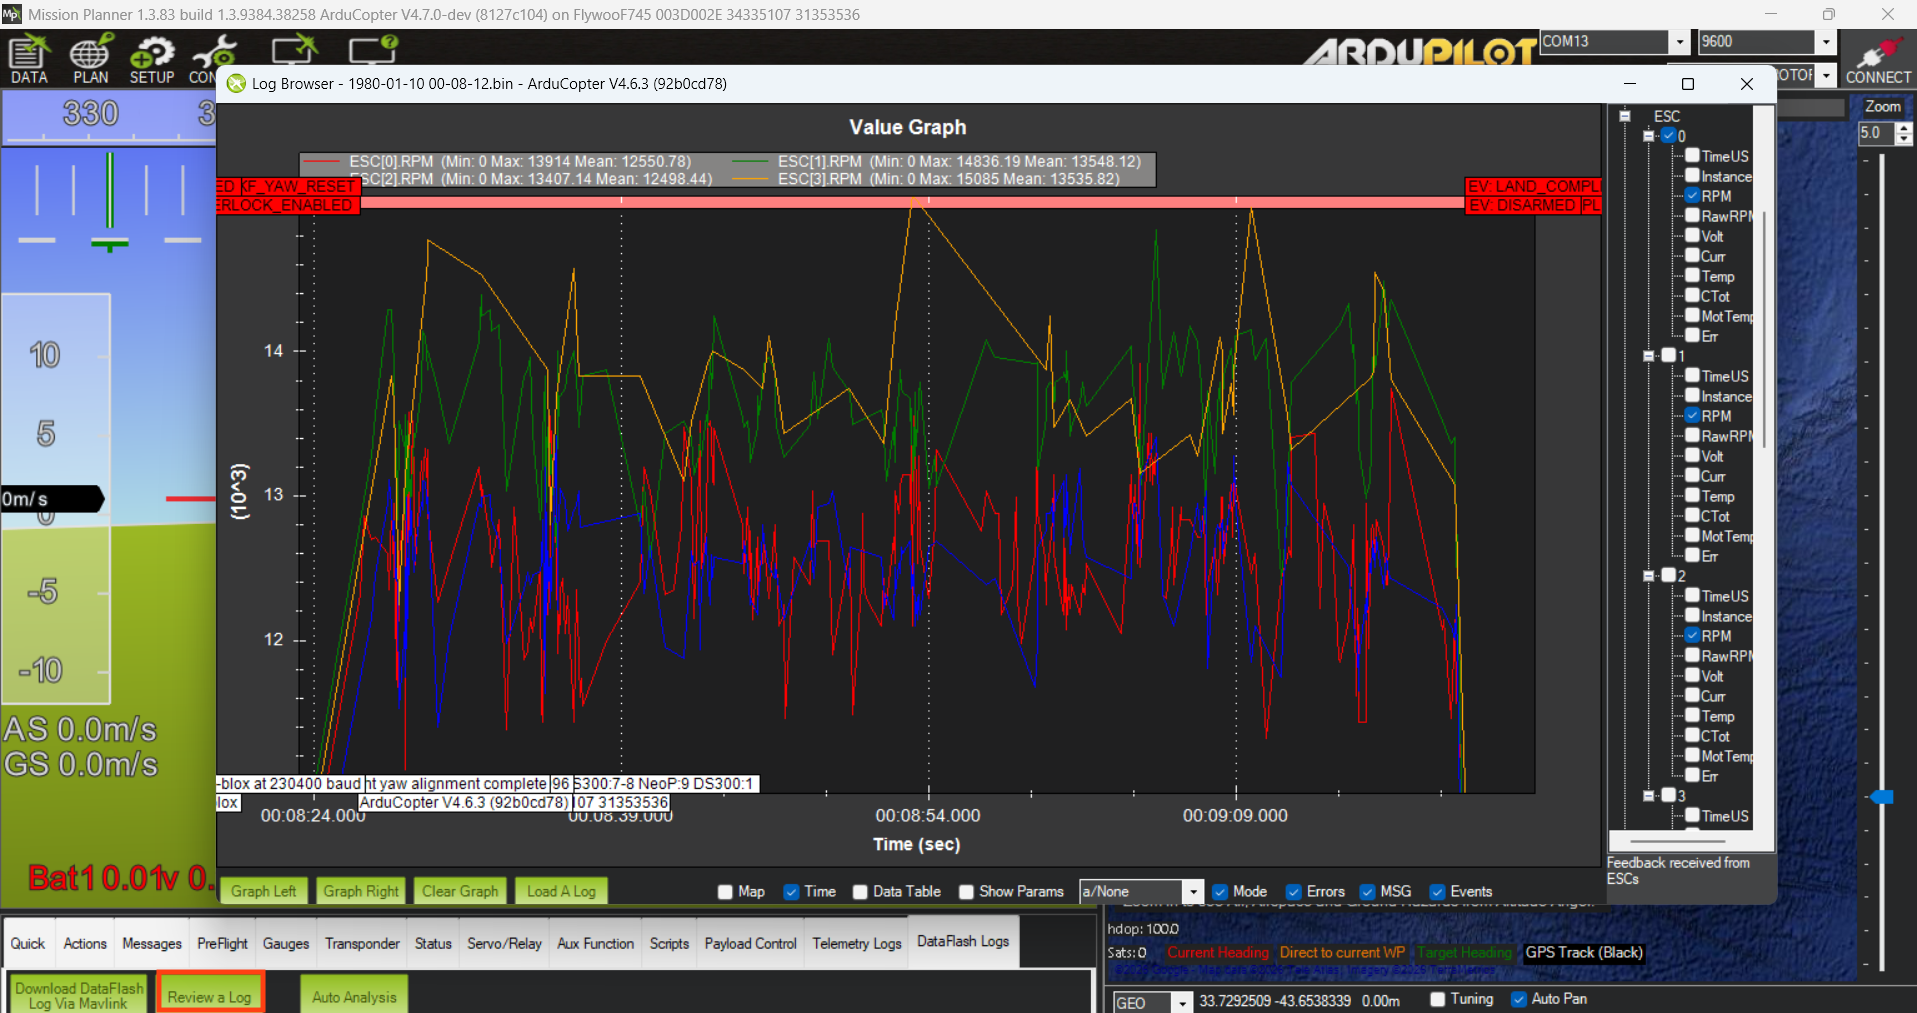
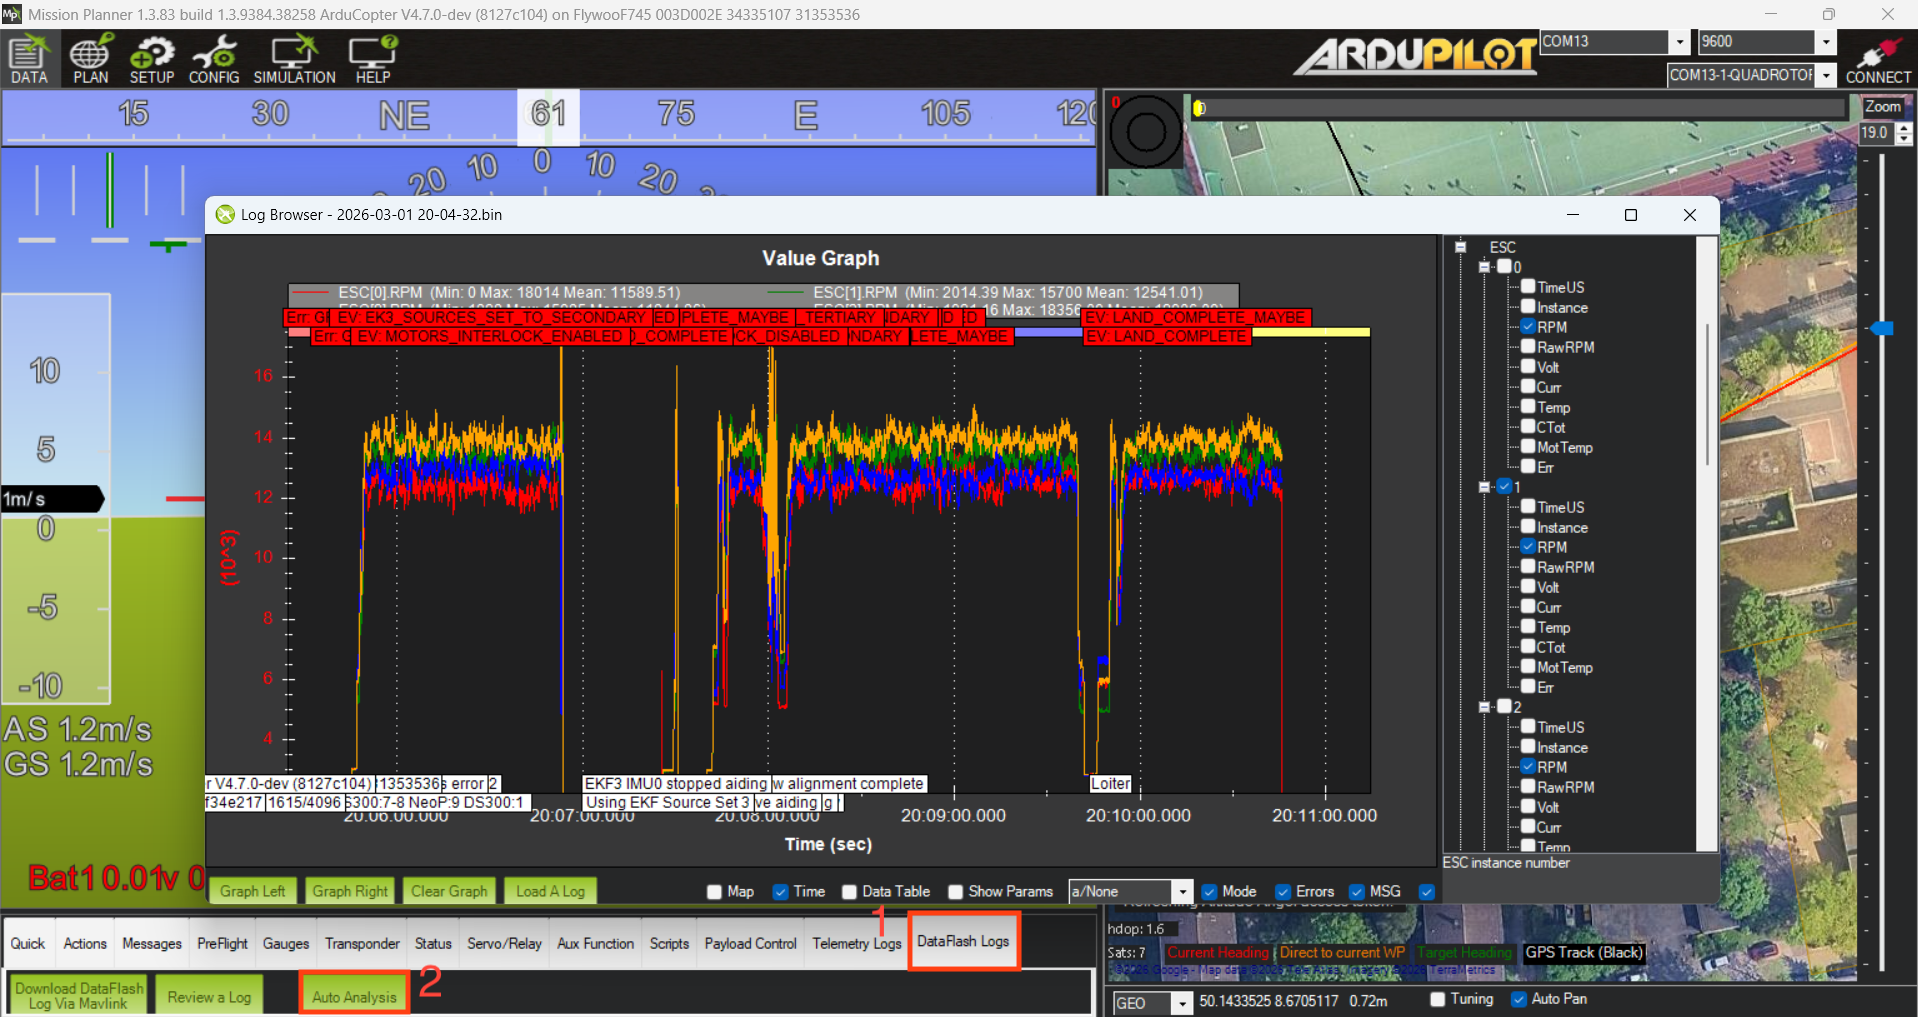
(Ardupilot): Added ploting with log data and intro of harmonic notch filtering

diff --git a/chapter02.tex b/chapter02.tex
@@ -1448,7 +1448,7 @@ TBD
 
 \coleng
 
-A variety of software tools are available to facilitate the analysis and visualization of ArduPilot log data. Mission Planner is widely utilized for this purpose, as it provides integrated log review functionalities, including graphical plotting and parameter inspection (see Figure~\ref{MissionLogAnalysis}) . In addition, MAVExplorer, a Python-based command-line utility, can be used for advanced log analysis and developing custom data-processing scripts.
+A variety of software tools are available to facilitate the analysis and visualization of ArduPilot log data. Mission Planner is widely utilized for this purpose, as it provides integrated log review functionalities, including graphical plotting and parameter inspection (see Figure~\ref{MissionLogAnalysis}). In addition, MAVExplorer, a Python-based command-line utility, can be used for advanced log analysis and developing custom data-processing scripts.
 
 \colger
 
@@ -1459,7 +1459,7 @@ TBD
 \begin{figure}[htb!]
 	\centering
 	\includegraphics[width=\linewidth]{Mission_Planneer_1.3.83_logs_analysis_screenshot.png}
-	\caption{Mission Planner: Log Analysis}
+	\caption{Mission Planner: Log Analysis - Motor RPM plot}
 	\label{MissionLogAnalysis}
 \end{figure}
 \FloatBarrier
@@ -1620,11 +1620,27 @@ TBD
 \colende
 
 \renewcommand{\deutschertitel}{TBD}
-\renewcommand{\englischertitel}{ Read motor frequencies from test flight }
+\renewcommand{\englischertitel}{ Validation of Bidirectional DShot and RPM Logging (Optional) }
 \makrounterunterabschnitt
 \label{MotorFrequenciesReading}
 
+After configuring the logging parameters and enabling Bi-directional DShot, a short test flight should be performed to generate the data required for validation. This step is necessary to confirm that the motor feedback mechanism is functioning correctly.
+Mission Planner: Log Analysis
+\colger
+
 TBD
+
+\coleng
+
+Following the test flight, the DataFlash log file (.bin) should be downloaded using the ground control software (see Figure~\ref{MissionPlannerDataFlashLogDownload}). The downloaded log can then be opened using a suitable analysis tool, such as Mission Planner.
+
+\colger
+
+TBD
+
+\coleng
+
+During log analysis, the motor RPM data should be examined. If the configuration is correct, the log will display active time-varying graphs of each motor RPM throughout the flight, as illustrated in Figure~\ref{MissionLogAnalysis}. Conversely, if the RPM data of any motor is absent or appears as a constant (flat) signal, this indicates that the flight controller is not receiving feedback from the ESCs. In such cases, it is necessary to verify the hardware connections and review the configuration parameters before proceeding to further tuning steps.
 
 \colger
 
@@ -1633,24 +1649,37 @@ TBD
 \colende
 
 \renewcommand{\deutschertitel}{TBD}
-\renewcommand{\englischertitel}{ Set Harmonic notch and test flight }
-\makrounterunterabschnitt
-\label{SetHarmonicNotch}
-
-TBD
-
-\colger
-
-TBD
-
-\colende
-
-\renewcommand{\deutschertitel}{TBD}
-\renewcommand{\englischertitel}{ Fix harmonic notch with log data }
+\renewcommand{\englischertitel}{ Harmonic Notch Filter Configuration Using Log Data }
 \makrounterunterabschnitt
 \label{FixHarmonicNotchByLogReadngs}
 
-The quick brown fox jumps over the lazy downloading
+To properly configure the harmonic notch filter, DataFlash log data (.bin) is required. If a log file has already been obtained from the previous section, it can be used directly. Otherwise, a short test flight—consisting of approximately one minute of hovering—should be performed to collect the necessary data, as described earlier.
+
+\colger
+
+TBD
+
+\coleng
+
+The harmonic notch filter can be tuned using the ArduPilot Filter Review Tool. The log file should be uploaded to the tool (available at: \url{https://firmware.ardupilot.org/Tools/WebTools/FilterReview/}), after which a visualization similar to Figure~\ref{ArduPilotFilterReviewFrequencySpectrumWitoutNotch} will be displayed. This visualization presents the IMU (gyro) frequency spectrum from the flight, illustrating vibration characteristics before and after filtering.
+
+\colger
+
+TBD
+
+\colende
+
+\begin{figure}[htb!]
+  \centering
+    \includegraphics[width=\linewidth]{ArduPilotFilterReview_Frequency_Spectrum_no_notch_screenshot.png}
+  \caption{IMU Frequency Spectrum (Without Harmonic Notch Filtering) – Test Flight}
+  \label{ArduPilotFilterReviewFrequencySpectrumWitoutNotch}
+\end{figure}
+\FloatBarrier
+
+\colstart
+
+TBD
 
 \colger
 
@@ -1663,7 +1692,7 @@ TBD
 \makrounterunterabschnitt
 \label{FixGyroFilterAndFinalTestFlight}
 
-The quick brown fox jumps over the lazy downloading
+TBD
 
 \colger
 
